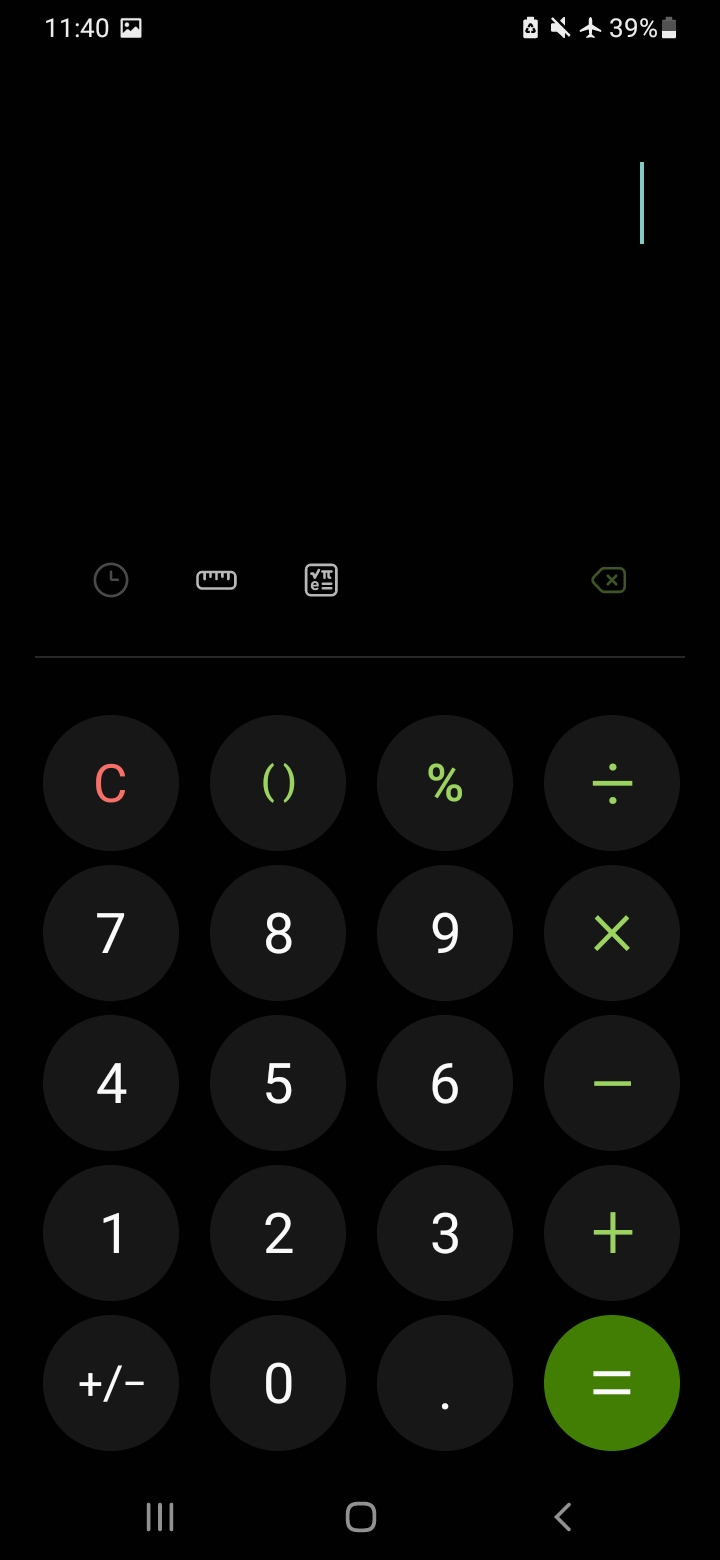
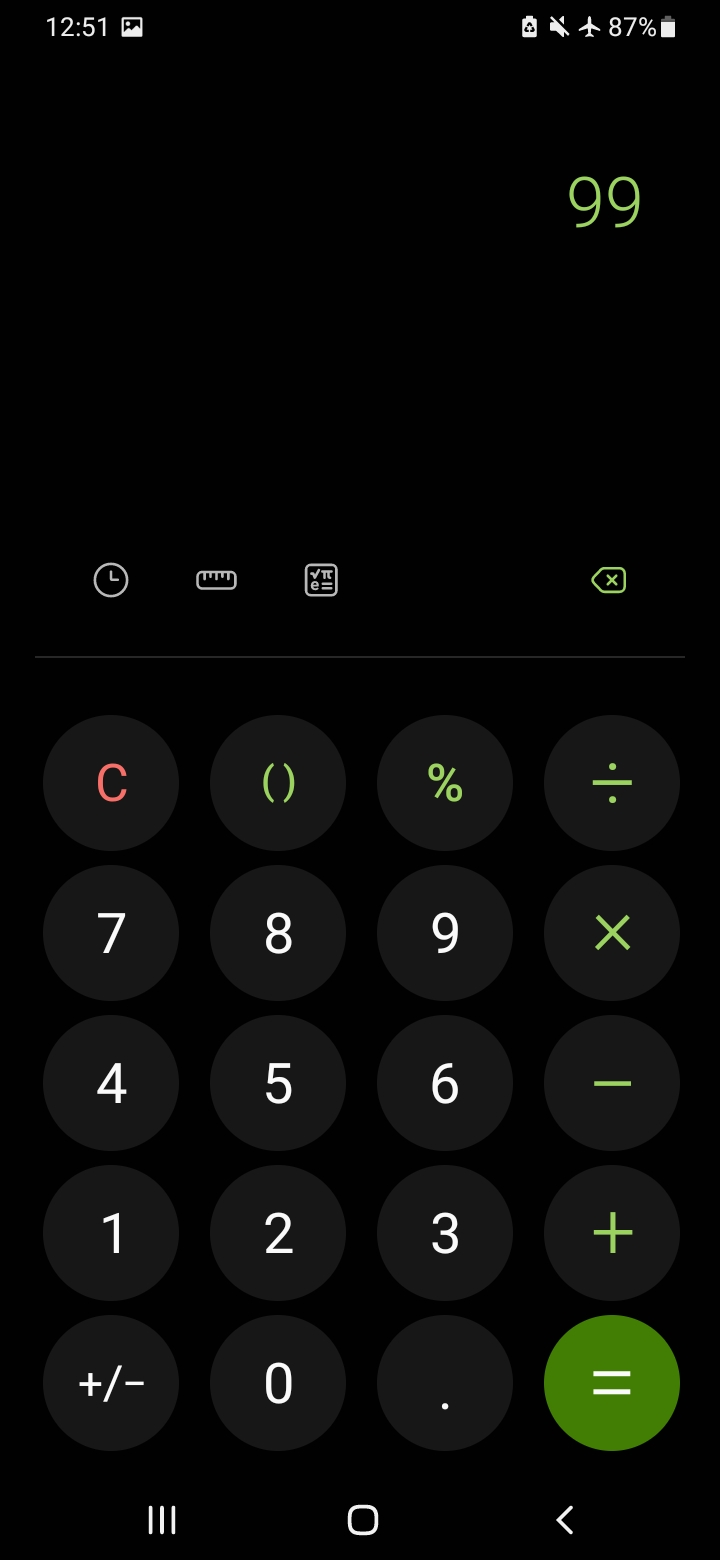
update interface and improve js code

diff --git a/index.html b/index.html
@@ -12,36 +12,49 @@
           <p class="preview"></p>
         </div>
         <div class="options">
-          <button class="history">history</button>
-          <button class="ruler">ruler</button>
-          <button class="displayOps">ops</button>
-          <button class="backspace">bs</button>
+          <button class="history">
+            <img src="./extra/history.jpg" alt="history" class="history" />
+          </button>
+          <button class="ruler">
+            <img src="./extra/ruler.jpg" alt="ruler" class="ruler" />
+          </button>
+          <button class="displayOps">
+            <img src="./extra/ops.jpg" alt="ops" class="ops" />
+          </button>
+          </button>
+          <button class="backspace">
+            <img
+              src="./extra/backspace.jpg"
+              alt="backspace"
+              class="backspace"
+            />
+          </button>
         </div>
         <div class="allBtns">
           <div class="left parentEng2 hide">
-            <button class="eng flash">flash</button>
-            <button class="op eng rad">xxx</button>
-            <button class="op eng sqrt">xxx</button>
+            <button class="eng flash">↔</button>
+            <button class="op eng rad">Rad</button>
+            <button class="op eng sqrt">**0.3</button>
             <br />
-            <button class="op eng sin">xxx</button>
-            <button class="op eng cos">xxx</button>
-            <button class="op eng tan">tan</button>
+            <button class="op eng sin">sin^-1</button>
+            <button class="op eng cos">cos^-1</button>
+            <button class="op eng tan">tan^-1</button>
             <br />
-            <button class="op eng ln">ln</button>
-            <button class="op eng log">log</button>
-            <button class="op eng inverse">1/x</button>
+            <button class="op eng ln">sinh</button>
+            <button class="op eng log">cosh</button>
+            <button class="op eng inverse">tanh</button>
             <br />
-            <button class="op eng ex">e^x</button>
-            <button class="op eng pow2">x^2</button>
-            <button class="op eng pow">x^y</button>
+            <button class="op eng ex">sinh^-1</button>
+            <button class="op eng pow2">cosh^-1</button>
+            <button class="op eng pow">tanh^-1</button>
             <br />
-            <button class="op eng abs">|x|</button>
-            <button class="op eng pi">pi</button>
-            <button class="op eng e">e</button>
+            <button class="op eng abs">2^x</button>
+            <button class="op eng pi">x**3</button>
+            <button class="op eng e">x!</button>
           </div>
           <div class="left parentEng1 hide">
-            <button class="eng flash">flash</button>
-            <button class="op eng rad">rad</button>
+            <button class="eng flash">↔</button>
+            <button class="op eng rad">Rad</button>
             <button class="op eng sqrt">√</button>
             <br />
             <button class="op eng sin">sin</button>
@@ -64,22 +77,22 @@
             <button class="clear">c</button>
             <button>()</button>
             <button class="rem">%</button>
-            <button class="op div">/</button>
+            <button class="op div test">/</button>
             <br />
             <button class="number">7</button>
             <button class="number">8</button>
             <button class="number">9</button>
-            <button class="op mul">*</button>
+            <button class="op mul test">*</button>
             <br />
             <button class="number">4</button>
             <button class="number">5</button>
             <button class="number">6</button>
-            <button class="op min">-</button>
+            <button class="op min test">-</button>
             <br />
             <button class="number">1</button>
             <button class="number">2</button>
             <button class="number">3</button>
-            <button class="op plus">+</button>
+            <button class="op plus test">+</button>
             <br />
             <button class="sign">+/-</button>
             <button class="zero">0</button>

diff --git a/script.js b/script.js
@@ -47,8 +47,8 @@ let nums = input.value
 
 let operators = input.value.replace(/\d/g, "").split("");
 
-console.log(nums);
-console.log(operators);
+// console.log(nums);
+// console.log(operators);
 
 // input.value = "2%+1*2";
 
@@ -80,7 +80,7 @@ equal.addEventListener("click", () => {
 btn.forEach((i) =>
   i.addEventListener("click", () => {
     input.value += i.textContent;
-    if ([..."/*-+"].some((i) => input.value.includes(i)))
+    if ([..."*/-+"].some((i) => input.value.includes(i)))
       preview.textContent = eval(input.value);
   })
 );
@@ -105,7 +105,7 @@ let count2 = 0;
 
 let flash = document.querySelectorAll(".flash");
 
-function handle(x, y) {
+function unhide(x, y) {
   x.classList.remove("hide");
   y.classList.add("hide");
 }
@@ -113,18 +113,32 @@ function handle(x, y) {
 flash.forEach((i) =>
   i.addEventListener("click", () => {
     ++count2 && count2 % 2
-      ? handle(parentEng2, parentEng1)
-      : handle(parentEng1, parentEng2);
+      ? unhide(parentEng2, parentEng1)
+      : unhide(parentEng1, parentEng2);
   })
 );
 
-div.addEventListener("click", () => addToInput(div.textContent));
+//fixing multi op problem
+const addToInputOp = (value) =>
+  (input.value +=
+    !input.value || [..."*/+-"].includes(input.value.slice(-1)[0])
+      ? ""
+      : value);
 
-mul.addEventListener("click", () => addToInput(mul.textContent));
+//one event listener instead of billions
+let test = document.querySelectorAll(".test");
 
-min.addEventListener("click", () => addToInput(min.textContent));
+test.forEach((i) =>
+  i.addEventListener("click", () => addToInputOp(i.textContent))
+);
 
-plus.addEventListener("click", () => addToInput(plus.textContent));
+// div.addEventListener("click", () => addToInput(div.textContent));
+
+// mul.addEventListener("click", () => addToInput(mul.textContent));
+
+// min.addEventListener("click", () => addToInput(min.textContent));
+
+// plus.addEventListener("click", () => addToInput(plus.textContent));
 
 rem.addEventListener("click", () => assignToInput(input.value / 100));
 // rem.addEventListener("click", () => assignToInput(rem.textContent));

diff --git a/style.css b/style.css
@@ -109,3 +109,17 @@ button {
   margin-left: auto;
   margin-right: 5px;
 }
+
+.ops,
+.ruler,
+.history,
+.backspace {
+  zoom: 1.1;
+  width: 45px;
+  height: 45px;
+  border-radius: 50px;
+  display: flex;
+  flex-direction: column;
+  align-items: center;
+  justify-content: center;
+}
